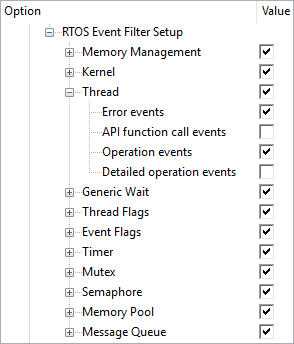
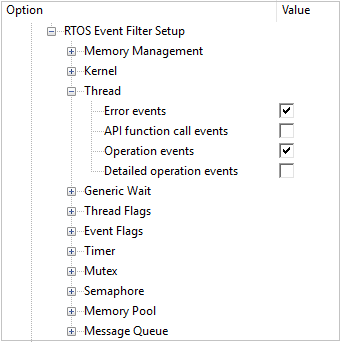
RTX5: Updated Event Recorder configuration (also addresses #457)

Changed region(s): [[0.0, 0.0, 1.0, 1.0]]

diff --git a/CMSIS/RTOS2/RTX/Config/RTX_Config.h b/CMSIS/RTOS2/RTX/Config/RTX_Config.h
@@ -353,7 +353,7 @@
 #endif
  
 //     <h>Global Event Filter Setup
-//     <i> Initial event filter settings applied to all components.
+//     <i> Initial recording level applied to all components.
 //       <o.0>Error events
 //       <o.1>API function call events
 //       <o.2>Operation events
@@ -364,128 +364,128 @@
 #endif
  
 //     <h>RTOS Event Filter Setup
-//     <i> Event filter settings for RTX components.
+//     <i> Recording levels for RTX components.
 //     <i> Only applicable if events for the respective component are generated.
  
-//       <e.7>Memory Management
-//       <i> Filter enable settings for Memory Management events.
+//       <h>Memory Management
+//       <i> Recording level for Memory Management events.
 //         <o.0>Error events
 //         <o.1>API function call events
 //         <o.2>Operation events
 //         <o.3>Detailed operation events
-//       </e>
-#ifndef OS_EVR_MEMORY_FILTER
-#define OS_EVR_MEMORY_FILTER        0x81U
+//       </h>
+#ifndef OS_EVR_MEMORY_LEVEL 
+#define OS_EVR_MEMORY_LEVEL         0x01U
 #endif
  
-//       <e.7>Kernel
-//       <i> Filter enable settings for Kernel events.
+//       <h>Kernel
+//       <i> Recording level for Kernel events.
 //         <o.0>Error events
 //         <o.1>API function call events
 //         <o.2>Operation events
 //         <o.3>Detailed operation events
-//       </e>
-#ifndef OS_EVR_KERNEL_FILTER
-#define OS_EVR_KERNEL_FILTER        0x81U
+//       </h>
+#ifndef OS_EVR_KERNEL_LEVEL 
+#define OS_EVR_KERNEL_LEVEL         0x01U
 #endif
  
-//       <e.7>Thread
-//       <i> Filter enable settings for Thread events.
+//       <h>Thread
+//       <i> Recording level for Thread events.
 //         <o.0>Error events
 //         <o.1>API function call events
 //         <o.2>Operation events
 //         <o.3>Detailed operation events
-//       </e>
-#ifndef OS_EVR_THREAD_FILTER
-#define OS_EVR_THREAD_FILTER        0x85U
+//       </h>
+#ifndef OS_EVR_THREAD_LEVEL 
+#define OS_EVR_THREAD_LEVEL         0x05U
 #endif
  
-//       <e.7>Generic Wait
-//       <i> Filter enable settings for Generic Wait events.
+//       <h>Generic Wait
+//       <i> Recording level for Generic Wait events.
 //         <o.0>Error events
 //         <o.1>API function call events
 //         <o.2>Operation events
 //         <o.3>Detailed operation events
-//       </e>
-#ifndef OS_EVR_WAIT_FILTER
-#define OS_EVR_WAIT_FILTER          0x81U
+//       </h>
+#ifndef OS_EVR_WAIT_LEVEL 
+#define OS_EVR_WAIT_LEVEL           0x01U
 #endif
  
-//       <e.7>Thread Flags
-//       <i> Filter enable settings for Thread Flags events.
+//       <h>Thread Flags
+//       <i> Recording level for Thread Flags events.
 //         <o.0>Error events
 //         <o.1>API function call events
 //         <o.2>Operation events
 //         <o.3>Detailed operation events
-//       </e>
-#ifndef OS_EVR_THFLAGS_FILTER
-#define OS_EVR_THFLAGS_FILTER       0x81U
+//       </h>
+#ifndef OS_EVR_THFLAGS_LEVEL 
+#define OS_EVR_THFLAGS_LEVEL        0x01U
 #endif
  
-//       <e.7>Event Flags
-//       <i> Filter enable settings for Event Flags events.
+//       <h>Event Flags
+//       <i> Recording level for Event Flags events.
 //         <o.0>Error events
 //         <o.1>API function call events
 //         <o.2>Operation events
 //         <o.3>Detailed operation events
-//       </e>
-#ifndef OS_EVR_EVFLAGS_FILTER
-#define OS_EVR_EVFLAGS_FILTER       0x81U
+//       </h>
+#ifndef OS_EVR_EVFLAGS_LEVEL 
+#define OS_EVR_EVFLAGS_LEVEL        0x01U
 #endif
  
-//       <e.7>Timer
-//       <i> Filter enable settings for Timer events.
+//       <h>Timer
+//       <i> Recording level for Timer events.
 //         <o.0>Error events
 //         <o.1>API function call events
 //         <o.2>Operation events
 //         <o.3>Detailed operation events
-//       </e>
-#ifndef OS_EVR_TIMER_FILTER
-#define OS_EVR_TIMER_FILTER         0x81U
+//       </h>
+#ifndef OS_EVR_TIMER_LEVEL 
+#define OS_EVR_TIMER_LEVEL          0x01U
 #endif
  
-//       <e.7>Mutex
-//       <i> Filter enable settings for Mutex events.
+//       <h>Mutex
+//       <i> Recording level for Mutex events.
 //         <o.0>Error events
 //         <o.1>API function call events
 //         <o.2>Operation events
 //         <o.3>Detailed operation events
-//       </e>
-#ifndef OS_EVR_MUTEX_FILTER
-#define OS_EVR_MUTEX_FILTER         0x81U
+//       </h>
+#ifndef OS_EVR_MUTEX_LEVEL 
+#define OS_EVR_MUTEX_LEVEL          0x01U
 #endif
  
-//       <e.7>Semaphore
-//       <i> Filter enable settings for Semaphore events.
+//       <h>Semaphore
+//       <i> Recording level for Semaphore events.
 //         <o.0>Error events
 //         <o.1>API function call events
 //         <o.2>Operation events
 //         <o.3>Detailed operation events
-//       </e>
-#ifndef OS_EVR_SEMAPHORE_FILTER
-#define OS_EVR_SEMAPHORE_FILTER     0x81U
+//       </h>
+#ifndef OS_EVR_SEMAPHORE_LEVEL 
+#define OS_EVR_SEMAPHORE_LEVEL      0x01U
 #endif
  
-//       <e.7>Memory Pool
-//       <i> Filter enable settings for Memory Pool events.
+//       <h>Memory Pool
+//       <i> Recording level for Memory Pool events.
 //         <o.0>Error events
 //         <o.1>API function call events
 //         <o.2>Operation events
 //         <o.3>Detailed operation events
-//       </e>
-#ifndef OS_EVR_MEMPOOL_FILTER
-#define OS_EVR_MEMPOOL_FILTER       0x81U
+//       </h>
+#ifndef OS_EVR_MEMPOOL_LEVEL 
+#define OS_EVR_MEMPOOL_LEVEL        0x01U
 #endif
  
-//       <e.7>Message Queue
-//       <i> Filter enable settings for Message Queue events.
+//       <h>Message Queue
+//       <i> Recording level for Message Queue events.
 //         <o.0>Error events
 //         <o.1>API function call events
 //         <o.2>Operation events
 //         <o.3>Detailed operation events
-//       </e>
-#ifndef OS_EVR_MSGQUEUE_FILTER
-#define OS_EVR_MSGQUEUE_FILTER      0x81U
+//       </h>
+#ifndef OS_EVR_MSGQUEUE_LEVEL 
+#define OS_EVR_MSGQUEUE_LEVEL       0x01U
 #endif
  
 //     </h>

diff --git a/CMSIS/RTOS2/RTX/Source/rtx_lib.c b/CMSIS/RTOS2/RTX/Source/rtx_lib.c
@@ -361,6 +361,51 @@ __attribute__((section(".bss.os.msgqueue.mem")));
 
 #if (defined(OS_EVR_INIT) && (OS_EVR_INIT != 0))
 
+// Initial Thread configuration covered also Thread Flags and Generic Wait
+#if  defined(OS_EVR_THREAD_FILTER)
+#if !defined(OS_EVR_THFLAGS_FILTER)
+#define OS_EVR_THFLAGS_FILTER   OS_EVR_THREAD_FILTER
+#endif
+#if !defined(OS_EVR_WAIT_FILTER)
+#define OS_EVR_WAIT_FILTER      OS_EVR_THREAD_FILTER
+#endif
+#endif
+
+// Migrate initial filter configuration
+#if  defined(OS_EVR_MEMORY_FILTER)
+#define OS_EVR_MEMORY_LEVEL     (((OS_EVR_MEMORY_FILTER    & 0x80U) != 0U) ? (OS_EVR_MEMORY_FILTER    & 0x0FU) : 0U)
+#endif
+#if  defined(OS_EVR_KERNEL_FILTER)
+#define OS_EVR_KERNEL_LEVEL     (((OS_EVR_KERNEL_FILTER    & 0x80U) != 0U) ? (OS_EVR_KERNEL_FILTER    & 0x0FU) : 0U)
+#endif
+#if  defined(OS_EVR_THREAD_FILTER)
+#define OS_EVR_THREAD_LEVEL     (((OS_EVR_THREAD_FILTER    & 0x80U) != 0U) ? (OS_EVR_THREAD_FILTER    & 0x0FU) : 0U)
+#endif
+#if  defined(OS_EVR_WAIT_FILTER)
+#define OS_EVR_WAIT_LEVEL       (((OS_EVR_WAIT_FILTER      & 0x80U) != 0U) ? (OS_EVR_WAIT_FILTER      & 0x0FU) : 0U)
+#endif
+#if  defined(OS_EVR_THFLAGS_FILTER)
+#define OS_EVR_THFLAGS_LEVEL    (((OS_EVR_THFLAGS_FILTER   & 0x80U) != 0U) ? (OS_EVR_THFLAGS_FILTER   & 0x0FU) : 0U)
+#endif
+#if  defined(OS_EVR_EVFLAGS_FILTER)
+#define OS_EVR_EVFLAGS_LEVEL    (((OS_EVR_EVFLAGS_FILTER   & 0x80U) != 0U) ? (OS_EVR_EVFLAGS_FILTER   & 0x0FU) : 0U)
+#endif
+#if  defined(OS_EVR_TIMER_FILTER)
+#define OS_EVR_TIMER_LEVEL      (((OS_EVR_TIMER_FILTER     & 0x80U) != 0U) ? (OS_EVR_TIMER_FILTER     & 0x0FU) : 0U)
+#endif
+#if  defined(OS_EVR_MUTEX_FILTER)
+#define OS_EVR_MUTEX_LEVEL      (((OS_EVR_MUTEX_FILTER     & 0x80U) != 0U) ? (OS_EVR_MUTEX_FILTER     & 0x0FU) : 0U)
+#endif
+#if  defined(OS_EVR_SEMAPHORE_FILTER)
+#define OS_EVR_SEMAPHORE_LEVEL  (((OS_EVR_SEMAPHORE_FILTER & 0x80U) != 0U) ? (OS_EVR_SEMAPHORE_FILTER & 0x0FU) : 0U)
+#endif
+#if  defined(OS_EVR_MEMPOOL_FILTER)
+#define OS_EVR_MEMPOOL_LEVEL    (((OS_EVR_MEMPOOL_FILTER   & 0x80U) != 0U) ? (OS_EVR_MEMPOOL_FILTER   & 0x0FU) : 0U)
+#endif
+#if  defined(OS_EVR_MSGQUEUE_FILTER)
+#define OS_EVR_MSGQUEUE_LEVEL   (((OS_EVR_MSGQUEUE_FILTER  & 0x80U) != 0U) ? (OS_EVR_MSGQUEUE_FILTER  & 0x0FU) : 0U)
+#endif
+
 #if  defined(RTE_Compiler_EventRecorder)
 
 // Event Recorder Initialize
@@ -368,39 +413,19 @@ __STATIC_INLINE void evr_initialize (void) {
 
   (void)EventRecorderInitialize(OS_EVR_LEVEL, (uint32_t)OS_EVR_START);
 
-#if ((OS_EVR_MEMORY_FILTER    & 0x80U) != 0U)
-  (void)EventRecorderEnable(OS_EVR_MEMORY_FILTER    & 0x0FU, EvtRtxMemoryNo,       EvtRtxMemoryNo);
-#endif
-#if ((OS_EVR_KERNEL_FILTER    & 0x80U) != 0U)
-  (void)EventRecorderEnable(OS_EVR_KERNEL_FILTER    & 0x0FU, EvtRtxKernelNo,       EvtRtxKernelNo);
-#endif
-#if ((OS_EVR_THREAD_FILTER    & 0x80U) != 0U)
-  (void)EventRecorderEnable(OS_EVR_THREAD_FILTER    & 0x0FU, EvtRtxThreadNo,       EvtRtxThreadNo);
-#endif
-#if ((OS_EVR_WAIT_FILTER      & 0x80U) != 0U)
-  (void)EventRecorderEnable(OS_EVR_WAIT_FILTER      & 0x0FU, EvtRtxWaitNo,         EvtRtxWaitNo);
-#endif
-#if ((OS_EVR_THFLAGS_FILTER   & 0x80U) != 0U)
-  (void)EventRecorderEnable(OS_EVR_THFLAGS_FILTER   & 0x0FU, EvtRtxThreadFlagsNo,  EvtRtxThreadFlagsNo);
-#endif
-#if ((OS_EVR_EVFLAGS_FILTER   & 0x80U) != 0U)
-  (void)EventRecorderEnable(OS_EVR_EVFLAGS_FILTER   & 0x0FU, EvtRtxEventFlagsNo,   EvtRtxEventFlagsNo);
-#endif
-#if ((OS_EVR_TIMER_FILTER     & 0x80U) != 0U)
-  (void)EventRecorderEnable(OS_EVR_TIMER_FILTER     & 0x0FU, EvtRtxTimerNo,        EvtRtxTimerNo);
-#endif
-#if ((OS_EVR_MUTEX_FILTER     & 0x80U) != 0U)
-  (void)EventRecorderEnable(OS_EVR_MUTEX_FILTER     & 0x0FU, EvtRtxMutexNo,        EvtRtxMutexNo);
-#endif
-#if ((OS_EVR_SEMAPHORE_FILTER & 0x80U) != 0U)
-  (void)EventRecorderEnable(OS_EVR_SEMAPHORE_FILTER & 0x0FU, EvtRtxSemaphoreNo,    EvtRtxSemaphoreNo);
-#endif
-#if ((OS_EVR_MEMPOOL_FILTER   & 0x80U) != 0U)
-  (void)EventRecorderEnable(OS_EVR_MEMPOOL_FILTER   & 0x0FU, EvtRtxMemoryPoolNo,   EvtRtxMemoryPoolNo);
-#endif
-#if ((OS_EVR_MSGQUEUE_FILTER  & 0x80U) != 0U)
-  (void)EventRecorderEnable(OS_EVR_MSGQUEUE_FILTER  & 0x0FU, EvtRtxMessageQueueNo, EvtRtxMessageQueueNo);
-#endif
+  (void)EventRecorderDisable(EventRecordAll,        EvtRtxMemoryNo,       EvtRtxMessageQueueNo);
+
+  (void)EventRecorderEnable(OS_EVR_MEMORY_LEVEL,    EvtRtxMemoryNo,       EvtRtxMemoryNo);
+  (void)EventRecorderEnable(OS_EVR_KERNEL_LEVEL,    EvtRtxKernelNo,       EvtRtxKernelNo);
+  (void)EventRecorderEnable(OS_EVR_THREAD_LEVEL,    EvtRtxThreadNo,       EvtRtxThreadNo);
+  (void)EventRecorderEnable(OS_EVR_WAIT_LEVEL,      EvtRtxWaitNo,         EvtRtxWaitNo);
+  (void)EventRecorderEnable(OS_EVR_THFLAGS_LEVEL,   EvtRtxThreadFlagsNo,  EvtRtxThreadFlagsNo);
+  (void)EventRecorderEnable(OS_EVR_EVFLAGS_LEVEL,   EvtRtxEventFlagsNo,   EvtRtxEventFlagsNo);
+  (void)EventRecorderEnable(OS_EVR_TIMER_LEVEL,     EvtRtxTimerNo,        EvtRtxTimerNo);
+  (void)EventRecorderEnable(OS_EVR_MUTEX_LEVEL,     EvtRtxMutexNo,        EvtRtxMutexNo);
+  (void)EventRecorderEnable(OS_EVR_SEMAPHORE_LEVEL, EvtRtxSemaphoreNo,    EvtRtxSemaphoreNo);
+  (void)EventRecorderEnable(OS_EVR_MEMPOOL_LEVEL,   EvtRtxMemoryPoolNo,   EvtRtxMemoryPoolNo);
+  (void)EventRecorderEnable(OS_EVR_MSGQUEUE_LEVEL,  EvtRtxMessageQueueNo, EvtRtxMessageQueueNo);
 }
 
 #else

diff --git a/CMSIS/RTOS2/RTX/Include/rtx_evr.h b/CMSIS/RTOS2/RTX/Include/rtx_evr.h
@@ -34,14 +34,8 @@
 #ifndef   OS_EVR_THFLAGS
 #define   OS_EVR_THFLAGS        OS_EVR_THREAD
 #endif
-#ifndef   OS_EVR_THFLAGS_FILTER
-#define   OS_EVR_THFLAGS_FILTER OS_EVR_THREAD_FILTER
-#endif
 #ifndef   OS_EVR_WAIT
 #define   OS_EVR_WAIT           OS_EVR_THREAD
-#endif
-#ifndef   OS_EVR_WAIT_FILTER
-#define   OS_EVR_WAIT_FILTER    OS_EVR_THREAD_FILTER
 #endif
 
 #include "RTE_Components.h"
